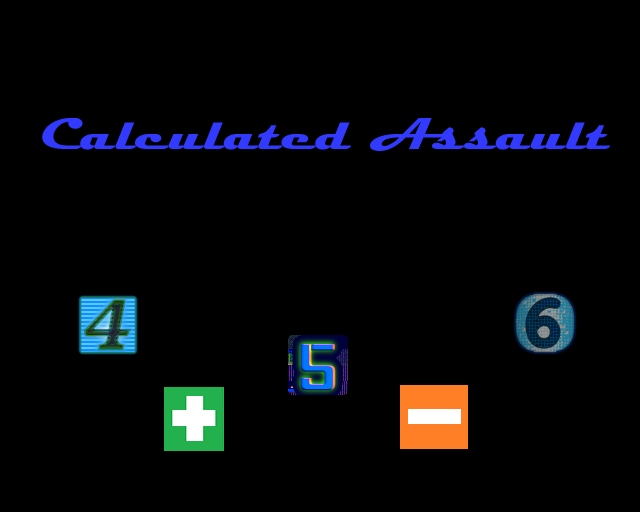
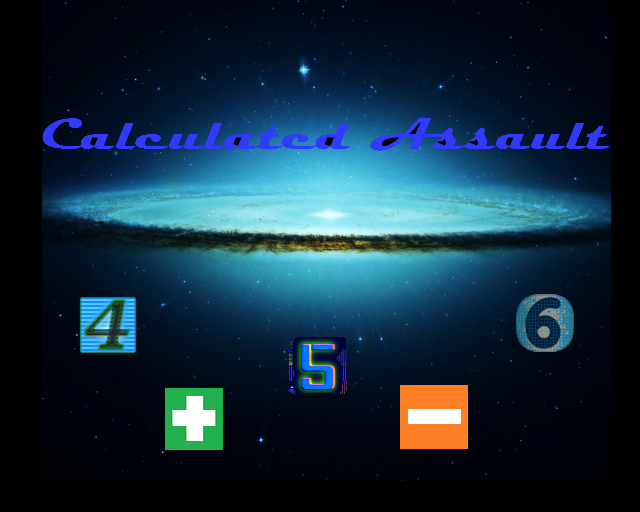
added new backgrounds

diff --git a/src/scripts/scenes/mainScene.ts b/src/scripts/scenes/mainScene.ts
@@ -100,7 +100,7 @@ export default class MainScene extends Phaser.Scene {
 
     var musicConfig = {
       mute: false,
-      volume: 1,
+      volume: 0.1,       //range from 0.0 - 1.0
       rate: 1,
       detune: 0,
       seek: 0,
@@ -148,8 +148,8 @@ export default class MainScene extends Phaser.Scene {
     this.add.text(20, 30, "Towers will add the value on left to the", {font: "15px Arial", fill: "white"});
     this.add.text(20, 45, "moving objects.", {font: "15px Arial", fill: "white"});
     this.add.text(20, 70, 'Change the tower value by clicking', {font: "15px Arial", fill: "white"});
-    this.add.text(20, 85, '"MORE" and "LESS".', {font: "15px Arial", fill: "white"});
-    this.add.text(20, 150, "Objective: Make Enemy = " + this.objective, {font: "20px Arial", fill: "red"});
+    this.add.text(20, 85, ' Up and Down Arrows.', {font: "15px Arial", fill: "white"});
+    this.add.text(20, 150, "Objective =  " + this.objective, {font: "20px Arial", fill: "red"});
     this.add.text(260, 202, "Click For", {font: "10px Arial", fill: "white"});
     this.add.text(260, 222, "Addition", {font: "10px Arial", fill: "white"});
     this.add.text(518, 330, "Click For", {font: "10px Arial", fill: "white"});
@@ -241,7 +241,6 @@ export default class MainScene extends Phaser.Scene {
 
     if (this.game.input.activePointer.isDown) {
       this.placeTower();
-
     }
 
     if (this.towerAddCount > 0) {
@@ -307,7 +306,8 @@ export default class MainScene extends Phaser.Scene {
 
       this.map[3][4] = 0;
       this.map[6][4] = 0;
-      this.scene.start('StartScene');
+      this.music.stop();
+      this.scene.start('VictoryScene');
     }
   }
 
@@ -431,8 +431,8 @@ export default class MainScene extends Phaser.Scene {
         //destroy old number
         enemy.destroy();
 
-        //Animation
-        enemy.play("change_anim");
+        //Animation ****CAUSES CRASHING ON COLLISION****
+        //enemy.play("change_anim");
         }
       }
     }     
@@ -472,8 +472,8 @@ export default class MainScene extends Phaser.Scene {
           //destroy old number
           enemy.destroy();
 
-          //Animation
-          enemy.play("change_anim");
+          //Animation ****CAUSES CRASHING ON COLLISION****
+          //enemy.play("change_anim");
         }
       }     
     }     
@@ -488,7 +488,7 @@ export default class MainScene extends Phaser.Scene {
     //sound effect
     var changeConfig ={
       mute: false,
-      volume: 3,
+      volume: 0.25,     //range from 0.0 - 1.0
       rate: 1,
       detune: 0,
       seek: 0,
@@ -512,7 +512,7 @@ export default class MainScene extends Phaser.Scene {
     //sound effect
     var changeConfig ={
       mute: false,
-      volume: 3,
+      volume: 0.25,   //range from 0.0 - 1.0
       rate: 1,
       detune: 0,
       seek: 0,

diff --git a/src/scripts/objects/subTower.ts b/src/scripts/objects/subTower.ts
@@ -21,7 +21,7 @@ export default class subTower extends Phaser.Physics.Arcade.Sprite {
 
         scene.textSubTowerLabel = scene.add.bitmapText(x - 5, y + 75, "pixelFont", scene.towerSubValue, 50);
 
-        towerButtonUp = scene.add.image(x + 50, y + 75, "upButton")
+        towerButtonUp = scene.add.image(x + 32, y + 88, "upButton")
         .setInteractive()
         .on('pointerover', () => {
             towerButtonUp.setTint(0x00ff00);
@@ -34,9 +34,7 @@ export default class subTower extends Phaser.Physics.Arcade.Sprite {
             scene.towerSubValueUp();
         });
 
-        towerButtonUp.angle = 90;
-
-        towerButtonDown = scene.add.image(x - 10, y + 75, "downButton")
+        towerButtonDown = scene.add.image(x - 30, y + 88, "downButton")
         .setInteractive()
         .on('pointerover', () => {
             towerButtonDown.setTint(0x00ff00);
@@ -48,8 +46,6 @@ export default class subTower extends Phaser.Physics.Arcade.Sprite {
             scene.towerSubValueDown();
         })
 
-         towerButtonDown.angle = 90;
-        
         
         scene.physics.add.sprite(x,y,"subTower");
 

diff --git a/src/scripts/scenes/victoryScene.ts b/src/scripts/scenes/victoryScene.ts
@@ -1,6 +1,6 @@
-export default class StartScene extends Phaser.Scene {
+export default class VictoryScene extends Phaser.Scene {
     constructor() {
-      super({ key: 'StartScene' });
+      super({ key: 'VictoryScene' });
 
    
     }
@@ -10,7 +10,7 @@ export default class StartScene extends Phaser.Scene {
     };
   
     create() {
-        this.add.image(this.scale.width/2, this.scale.height/2, "menuBackground");
+        this.add.image(this.scale.width/2, this.scale.height/2, "victoryBackground");
 
         /* SOUND */
         //music
@@ -29,7 +29,7 @@ export default class StartScene extends Phaser.Scene {
         this.music.play(musicConfig);
         
 
-        let startButton = this.add.image(this.scale.width/2, this.scale.height/2 + 30, "startButton")
+        let startButton = this.add.image(this.scale.width/2, this.scale.height/2 - 100, "restartButton")
         .setInteractive()
         .on('pointerover', () => {
             startButton.setTint(0x00ff00);

diff --git a/src/scripts/game.ts b/src/scripts/game.ts
@@ -1,6 +1,7 @@
 import 'phaser';
 import MainScene from './scenes/mainScene';
 import StartScene from './scenes/startScene';
+import VictoryScene from './scenes/victoryScene';
 import PreloadScene from './scenes/preloadScene';
 import GameConfig = Phaser.Types.Core.GameConfig;
 
@@ -18,7 +19,7 @@ const config: GameConfig = {
         width: DEFAULT_WIDTH,
         height: DEFAULT_HEIGHT
     },
-    scene: [PreloadScene, StartScene, MainScene],
+    scene: [PreloadScene, StartScene, VictoryScene, MainScene],
     physics: {
         default: 'arcade',
         arcade: {

diff --git a/src/scripts/scenes/preloadScene.ts b/src/scripts/scenes/preloadScene.ts
@@ -5,7 +5,9 @@ export default class PreloadScene extends Phaser.Scene {
 
   preload() {
     this.load.image("menuBackground", "./assets/images/menuBackground.png");
+    this.load.image("victoryBackground", "./assets/images/victoryBackground.png");
     this.load.image("startButton", "./assets/images/startButton.png");
+    this.load.image("restartButton", "./assets/images/restartButton.png");
     this.load.image("upButton", "./assets/images/btn_up.png");
     this.load.image("downButton", "./assets/images/btn_down.png");
 
